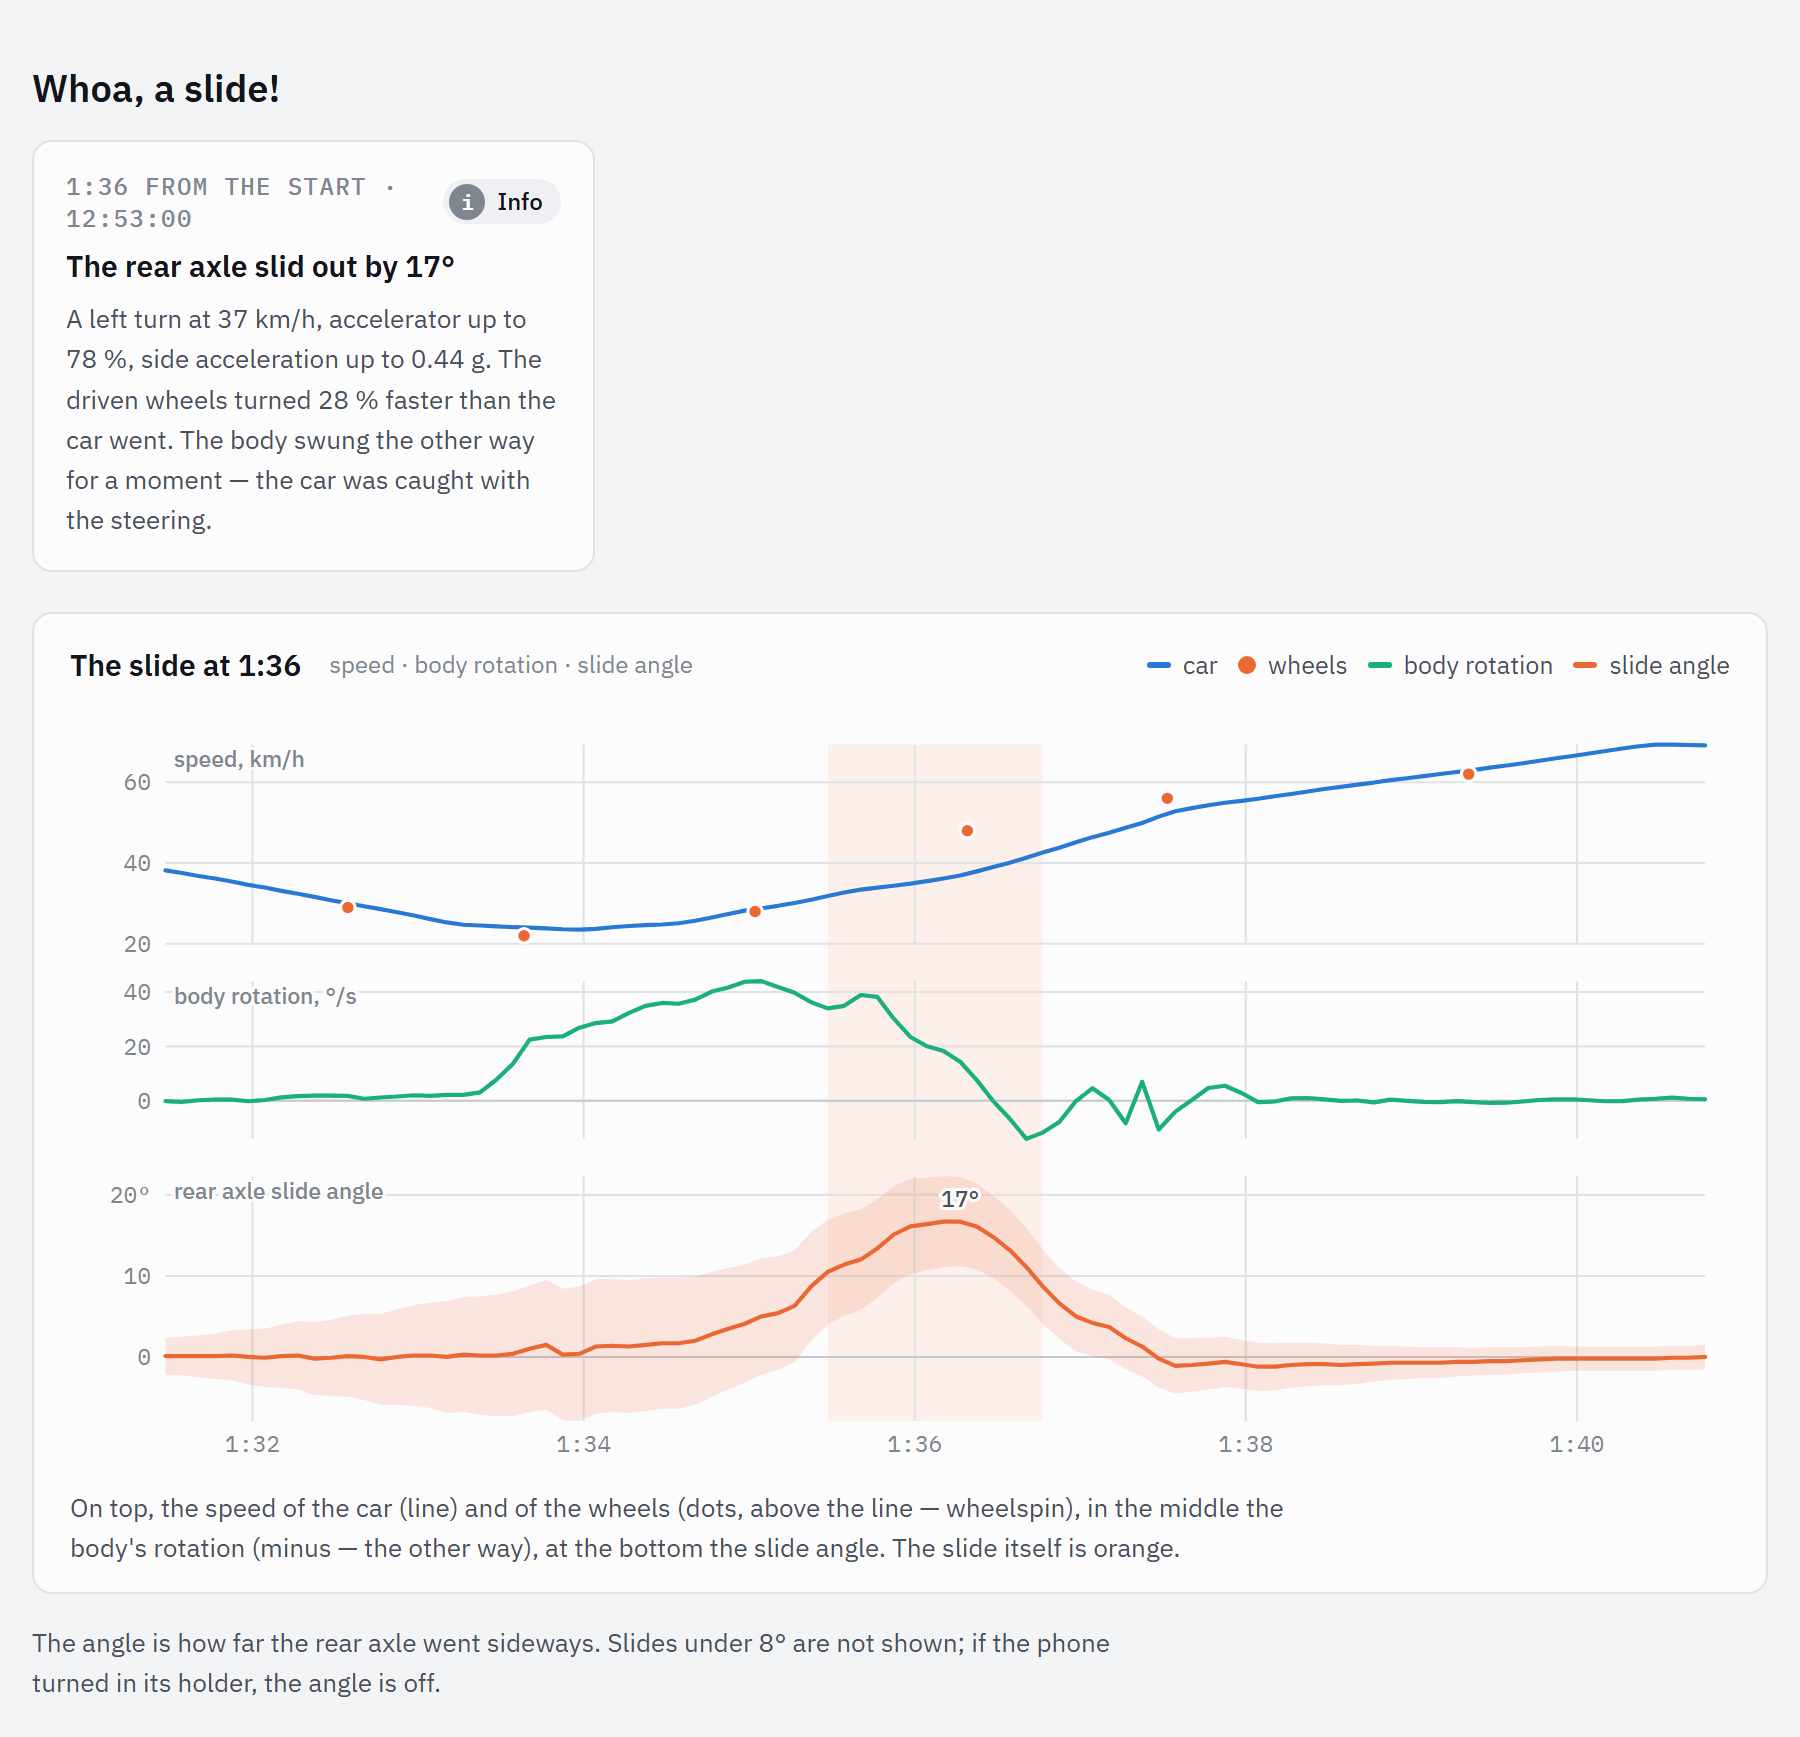
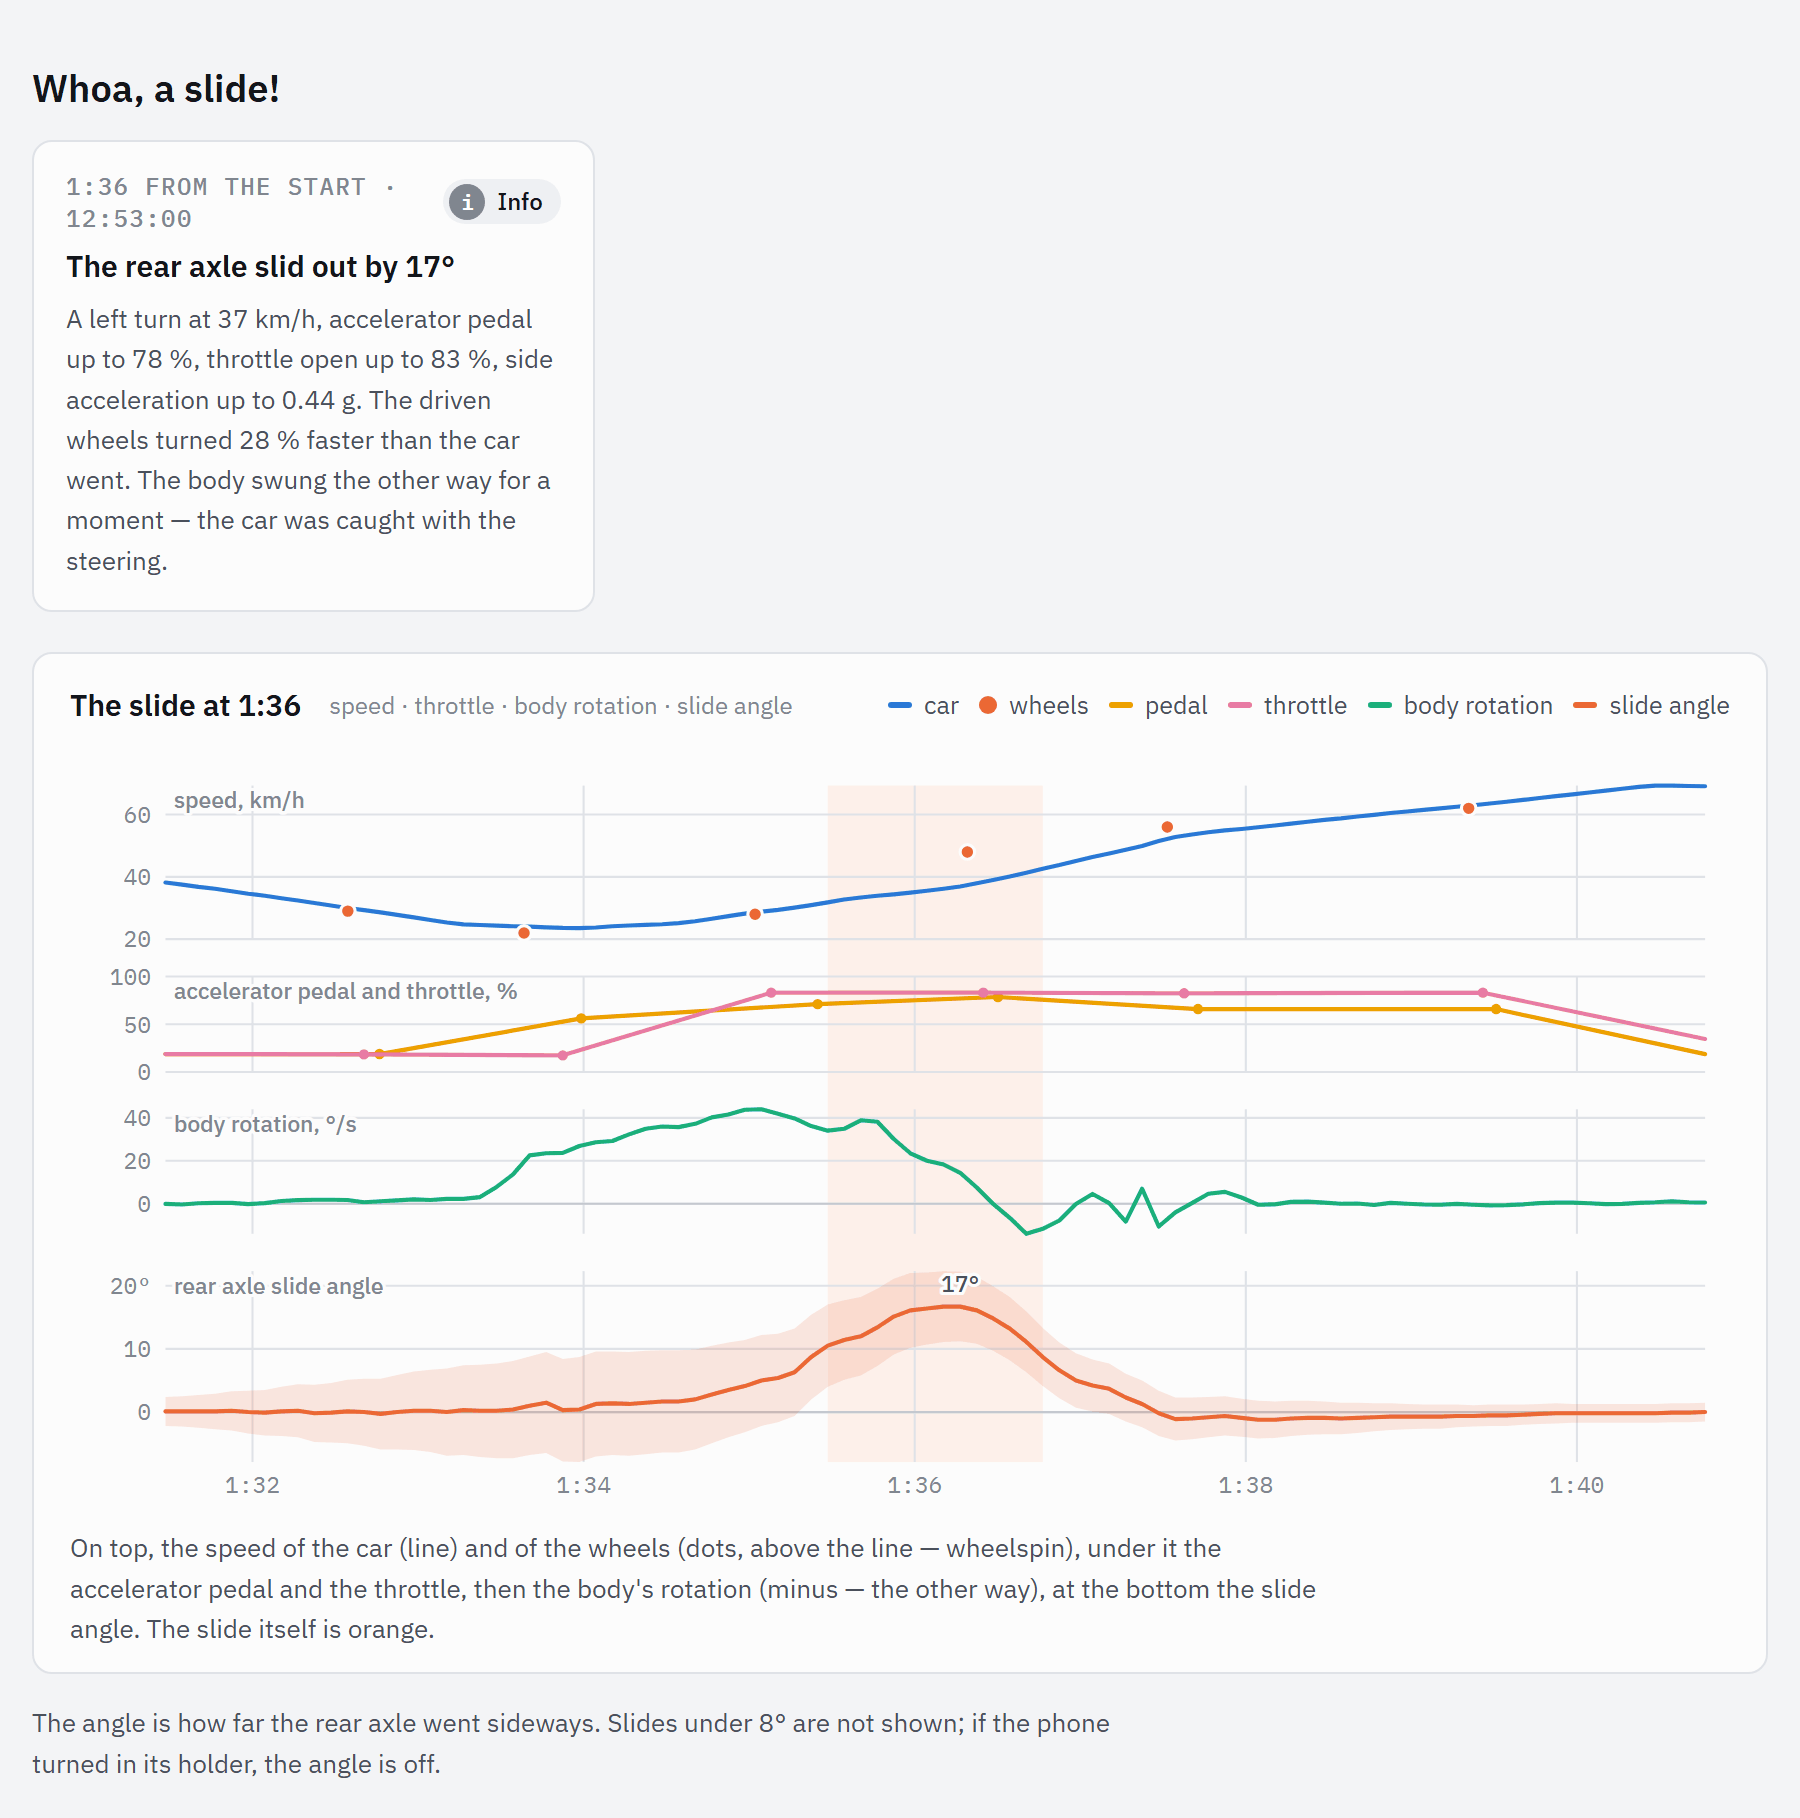
3.26 again: PickTest in the CI's language, the README's slide with the accelerator pedal and the throttle
The release run of v3.26 failed on PickTest: it compared the Car card with Russian words, and the runner is English («unknown», not «не определена»). The expected texts go through tr() now; the whole jvmTest passes under -Duser.language=en (ReplayTest aside — its local goldens are older than the last builds, the runner has no archive).

README (EN, RU): the slide's line and caption name the pedal and the throttle too, the screenshot shows the report's new strip for them.

diff --git a/core/src/jvmTest/kotlin/com/obdscanner/PickTest.kt b/core/src/jvmTest/kotlin/com/obdscanner/PickTest.kt
@@ -35,8 +35,8 @@ class PickTest {
         assertEquals(cts, v.misfitPick)
         assertFalse(v.makeByPick)
         val card = CarCard.build(v, CarDb.choice(cts.id))
-        assertEquals("не определена", card.title)
-        assertTrue(card.status.contains("не подходит") && card.status.contains("CAN 11/500"), card.status)
+        assertEquals(tr("не определена", "unknown"), card.title)        // the CI runs in English
+        assertTrue(card.status.contains(tr("не подходит", "doesn't fit")) && card.status.contains("CAN 11/500"), card.status)
     }
 
     /** Polo 9N picked while connected to it: the next connection to the same car takes it by its CALID. */
@@ -53,7 +53,7 @@ class PickTest {
         assertEquals(polo9n, v.car)
         assertTrue(v.pickForCar)
         assertNull(v.misfitPick)
-        assertTrue(CarCard.build(v, CarDb.choice(cts.id)).status.startsWith("выбрана для этой машины"))
+        assertTrue(CarCard.build(v, CarDb.choice(cts.id)).status.startsWith(tr("выбрана для этой машины", "picked for this car")))
     }
 
     /** A pick made with no car connected stays app-wide only: nothing is kept for the last car seen. */

diff --git a/README.ru.md b/README.ru.md
@@ -26,7 +26,7 @@
 
 - **Отчёт по поездке в одно касание.** После «Стоп» телефон сам собирает из записи одну HTML-страницу — без интернета и регистрации. Её можно открыть в браузере или отправить в мессенджер: что проверить, графики поездки, бензин и детонация, ходовая.
 - **Ходовая — по датчикам самого телефона.** Амортизаторы, балансировка и шины, тормозные диски, ступичные подшипники, кардан, опоры двигателя, гидротрансформатор — по акселерометру и гироскопу. Крепить телефон не нужно: он может лежать на сиденье.
-- **Был занос?** Если в поездке машину заносило, отчёт это покажет: когда, на сколько градусов, буксовали ли колёса и как машину поймали — по датчикам телефона и скорости OBD, без дополнительного железа.
+- **Был занос?** Если в поездке машину заносило, отчёт это покажет: когда, на сколько градусов, сколько было газа, буксовали ли колёса и как машину поймали — по датчикам телефона и скорости OBD, без дополнительного железа.
 - **Как бензин?** Одна галочка — и откат по детонации читается каждый цикл: где он был (обороты × нагрузка), как часто под большой нагрузкой, насколько сильный. Заправились на другой АЗС, проехали ту же дорогу — сравнили.
 - **Больше, чем стандартный OBD-II.** Параметры производителя и коды ошибок всех блоков, до которых ELM327 может дотянуться: GM ($22, $A9, GMLAN), Toyota ($21), Volkswagen примерно до 2012 года за шлюзом (VW TP 2.0), блоки других марок по UDS и KWP.
 - **Знает вашу машину.** 43 марки по VIN, 260+ моделей и поколений: где разъём, какой протокол, какие блоки и параметры. Больше 6 000 параметров производителей (большая часть — из открытого проекта [OBDb](https://github.com/OBDb), с пометкой «(?)», пока машина их не подтвердит) и почти 12 000 кодов ошибок с объяснениями.
@@ -75,7 +75,7 @@
 </table>
 
 <p align="center"><img src="screenshots/ru/report-7-slide.png" width="720" alt="Ого, занос!"></p>
-<p align="center">«Ого, занос!» — сразу под «Что проверить», только если он был: угол, пробуксовка и сам момент на графике. Другая поездка: левый поворот с газом, заднюю ось занесло на 17°, машину поймали рулём</p>
+<p align="center">«Ого, занос!» — сразу под «Что проверить», только если он был: угол, педаль газа и дроссель, пробуксовка — и сам момент на графике. Другая поездка: левый поворот, дроссель открыт до 83 %, заднюю ось занесло на 17°, колёса крутились на 28 % быстрее, чем ехала машина, машину поймали рулём</p>
 
 <img src="screenshots/ru/report-3-trip.png" alt="Графики поездки">
 <p align="center">Графики поездки с общим курсором: наведите куда угодно — каждый график покажет своё значение в этот момент</p>

diff --git a/README.md b/README.md
@@ -26,7 +26,7 @@
 
 - **A trip report in one tap.** After «Stop» the phone builds a single HTML page from the recording — no internet, no account. Open it in a browser or send it to a messenger: what to check, trip charts, fuel and knock, the chassis.
 - **The chassis, by the phone's own sensors.** Shock absorbers, wheel balance and tyres, brake discs, wheel bearings, driveshaft, engine mounts, torque converter — from the accelerometer and gyroscope. The phone doesn't need a mount: it can lie on the seat.
-- **Caught a slide?** If the car stepped out on the drive, the report shows it: when, by how many degrees, whether the wheels spun and how it was caught — from the phone's sensors and the OBD speed, no extra hardware.
+- **Caught a slide?** If the car stepped out on the drive, the report shows it: when, by how many degrees, how much throttle, whether the wheels spun and how it was caught — from the phone's sensors and the OBD speed, no extra hardware.
 - **How's the fuel?** One checkbox, and knock retard is read every cycle: where it happened (rpm × load), how often under heavy load, how strong. Fill up somewhere else, drive the same road, compare.
 - **More than standard OBD-II.** Manufacturer parameters and the trouble codes of every module the car lets an ELM327 reach: GM ($22, $A9, GMLAN), Toyota ($21), Volkswagen up to ~2012 behind the gateway (VW TP 2.0), UDS and KWP modules of other makes.
 - **Knows your car.** 43 makes by VIN, 260+ models and generations: where the connector is, which protocol, which modules and parameters. Over 6,000 manufacturer parameters (most from the open [OBDb](https://github.com/OBDb) project, marked «(?)» until a car confirms them) and almost 12,000 trouble codes explained.
@@ -75,7 +75,7 @@ A real 30-minute drive in the developer's Cadillac CTS, the report as the phone 
 </table>
 
 <p align="center"><img src="screenshots/en/report-7-slide.png" width="720" alt="Whoa, a slide!"></p>
-<p align="center">«Whoa, a slide!» — right under «What to check», only when there was one: the angle, the wheelspin and the moment on a chart. Another trip: a left turn with the accelerator down, the rear axle slid out by 17° and was caught with the steering</p>
+<p align="center">«Whoa, a slide!» — right under «What to check», only when there was one: the angle, the accelerator pedal and the throttle, the wheelspin — and the moment on a chart. Another trip: a left turn with the throttle open to 83 %, the rear axle slid out by 17°, the wheels spun 28 % faster than the car went, the car was caught with the steering</p>
 
 <img src="screenshots/en/report-3-trip.png" alt="Trip charts">
 <p align="center">Trip charts with a shared cursor: hover anywhere and every chart shows its value at that moment</p>
